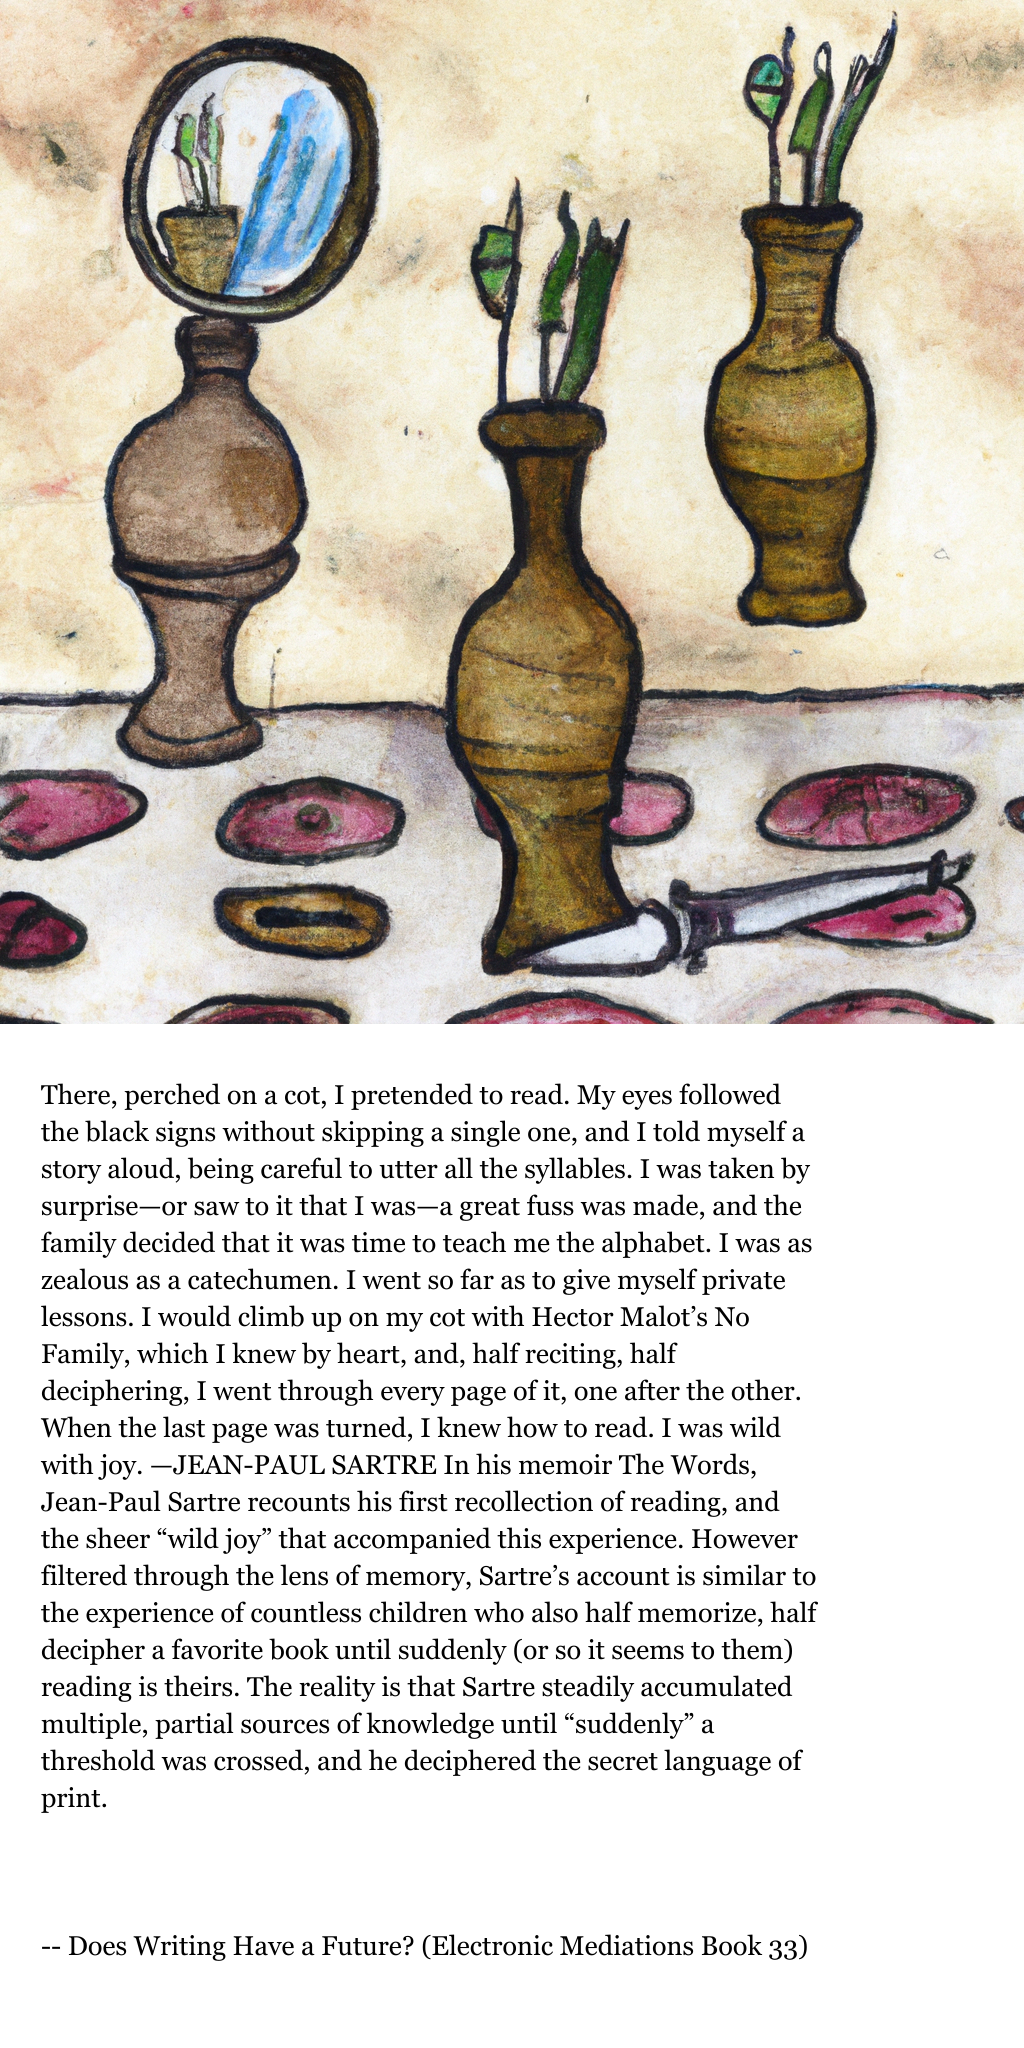
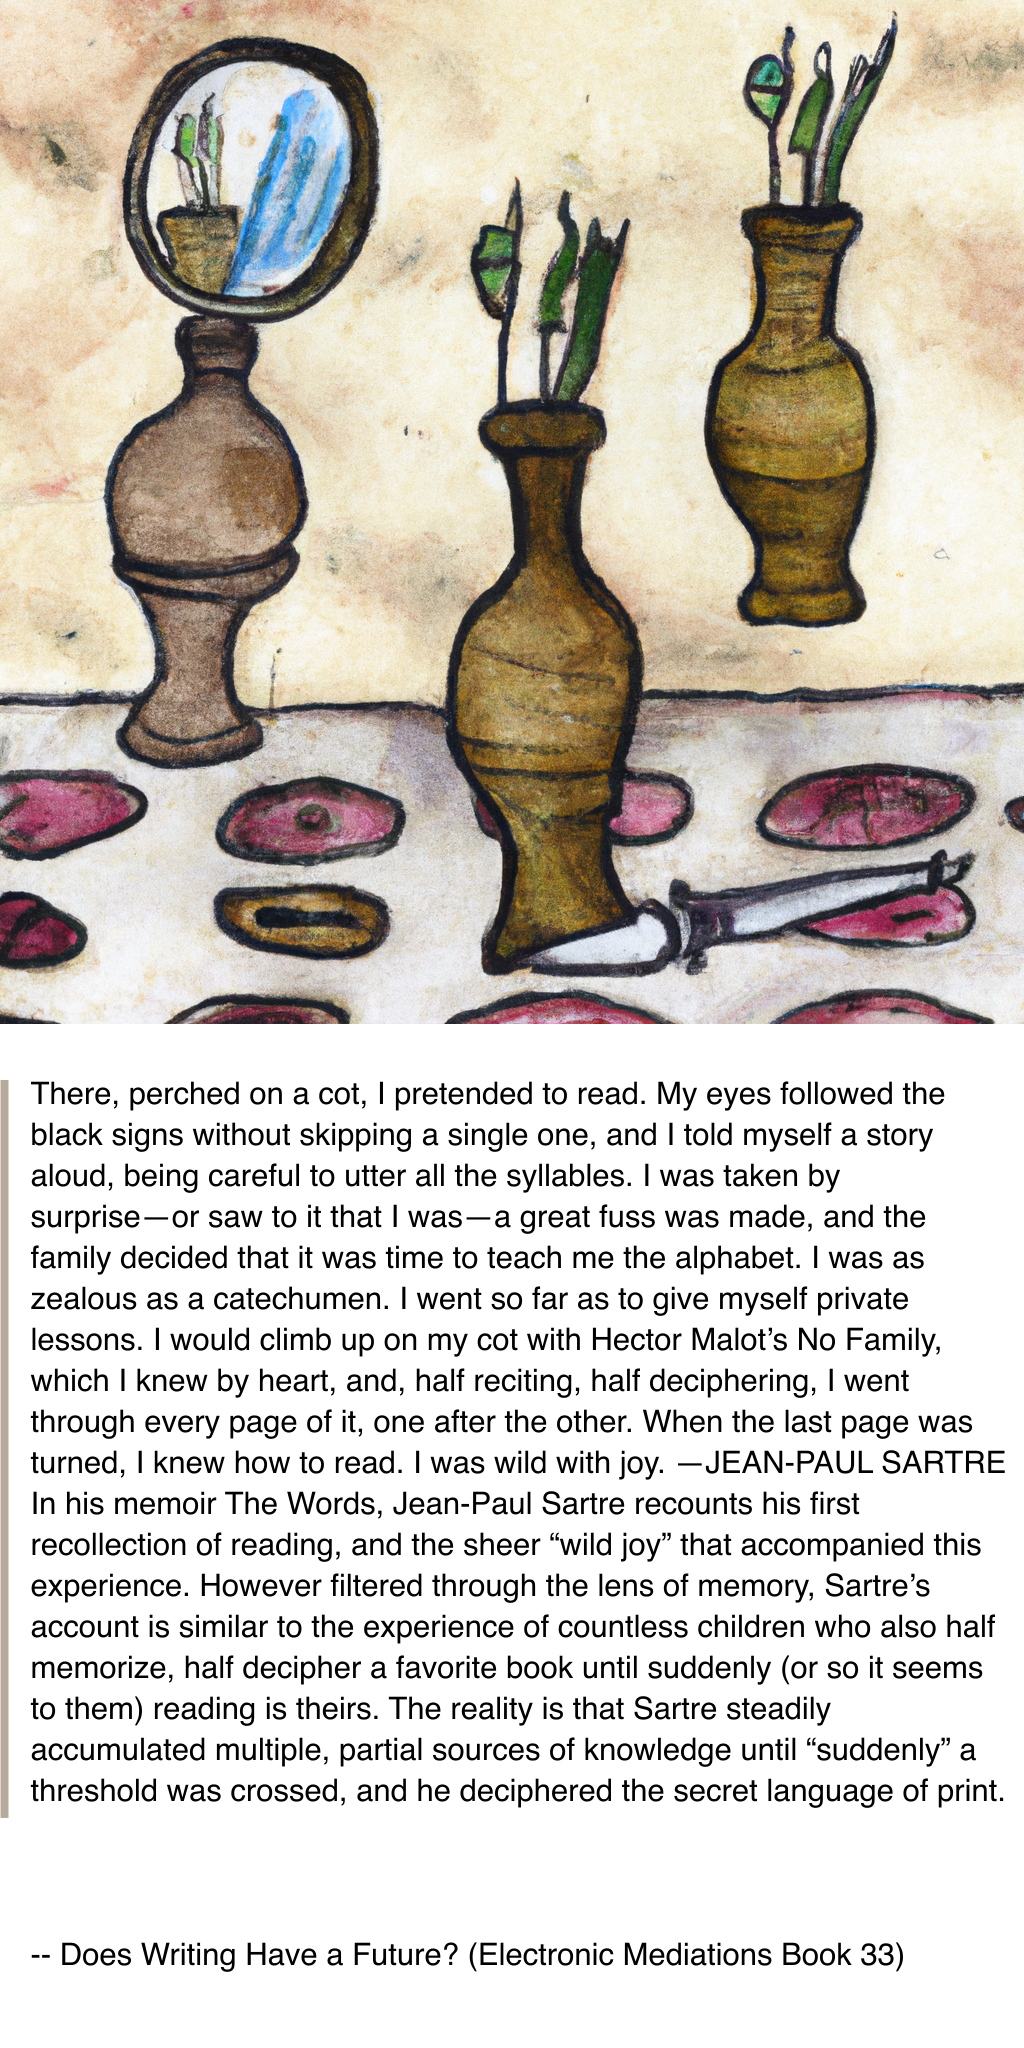
valid

Changed region(s): [[0.0, 0.5312, 0.9688, 0.9062], [0.0625, 0.9375, 0.875, 0.9688]]

diff --git a/share-pic.js b/share-pic.js
@@ -150,10 +150,10 @@ async function overlayTextOnImage(imageUrl, text) {
     ctx.fillStyle = "white";
     ctx.fillRect(0, 0, canvas.width, canvas.height);
 
-    const rectWidth = 1024 * 0.92;
+    const rectWidth = 1024 * 0.999;
     const rectHeight = 1024 * 0.92;
     const rectX = (1024 - rectWidth) / 2;
-    const rectY = 1024 + (1024 - rectHeight) / 2;  // Position the text block under the image
+    const rectY = 1024 + (1024 - rectHeight) / 2; // Position the text block under the image
 
     // Fetch and load the image
     const img = await loadImage(imageUrl);
@@ -161,7 +161,7 @@ async function overlayTextOnImage(imageUrl, text) {
 
     // Word wrapping logic and text rendering
     let fontSize = 80;
-    ctx.font = `${fontSize}px Georgia`;
+    ctx.font = `${fontSize}px Helvetica`;
     let lines = [];
     let blockHeight;
 
@@ -176,7 +176,8 @@ async function overlayTextOnImage(imageUrl, text) {
         for (let i = 0; i < words.length; i++) {
           const word = words[i];
           const width = ctx.measureText(currentLine + " " + word).width;
-          if (width < rectWidth - 162) {  // ~80px padding on each side
+          if (width < rectWidth - 38) {
+            // ~80px padding on each side
             currentLine += (currentLine ? " " : "") + word;
           } else {
             lines.push(currentLine);
@@ -184,7 +185,7 @@ async function overlayTextOnImage(imageUrl, text) {
           }
         }
         lines.push(currentLine);
-        lines.push("");  // Empty line to simulate paragraph spacing
+        lines.push(""); // Empty line to simulate paragraph spacing
       }
 
       // Remove the last empty line
@@ -193,17 +194,53 @@ async function overlayTextOnImage(imageUrl, text) {
       }
 
       // Calculate total block height
-      blockHeight = lines.length * (fontSize + 10);  // 10px line spacing
+      blockHeight = lines.length * (fontSize + 10); // 10px line spacing
       if (blockHeight > rectHeight) {
-        fontSize -= 1;  // Reduce the font size
-        ctx.font = `${fontSize}px Georgia`;  // Maintain the original font for simplicity
+        fontSize -= 1; // Reduce the font size
+        ctx.font = `${fontSize}px Helvetica`; // Maintain the original font for simplicity
       }
     } while (blockHeight > rectHeight);
+
+    const textXStart = 0; // Start drawing text at X=1044 to place it on the right side
+
+    const imageData = ctx.getImageData(0, 0, 1024, 1024);
+    let r = 0,
+      g = 0,
+      b = 0;
+    for (let i = 0; i < imageData.data.length; i += 4) {
+      r += imageData.data[i];
+      g += imageData.data[i + 1];
+      b += imageData.data[i + 2];
+    }
+    const pixelCount = imageData.data.length / 4;
+    r = Math.floor(r / pixelCount);
+    g = Math.floor(g / pixelCount);
+    b = Math.floor(b / pixelCount);
+
+    // make background color of rectangle average color
+    const backgroundColor = `rgb(${r}, ${g}, ${b})`;
+
+    // Draw colored rectangle to the left of the text block
+    const rectangleWidth = 8; // Width of the colored rectangle
+    ctx.fillStyle = backgroundColor; // Color of the rectangle
+    // find line that starts with --
+    const citationLine = lines.find((line) => line.startsWith("--"));
+    const citationIndex = lines.indexOf(citationLine);
+    const linesBeforeCitation = lines.slice(0, citationIndex);
+    const linesAfterCitation = lines.slice(citationIndex);
+    const rectangleHeight = (linesBeforeCitation.length - 3) * (fontSize + 10); // Exclude the last line (citation)
+    ctx.fillRect(
+      textXStart + rectX,
+      rectY + 15,
+      rectangleWidth,
+      rectangleHeight
+    );
+
 
     // Draw each line of text in the bottom half
     ctx.fillStyle = "black";
     for (let i = 0; i < lines.length; i++) {
-      ctx.fillText(lines[i], rectX, 1024 + 80 + i * (fontSize + 10)); // Start drawing 20px below the image
+      ctx.fillText(lines[i], rectX + 30, 1024 + 80 + i * (fontSize + 10)); // Start drawing 20px below the image
     }
 
     // Convert canvas to buffer
@@ -214,7 +251,6 @@ async function overlayTextOnImage(imageUrl, text) {
     return null;
   }
 }
-
 
 async function overlayTextOnImageHorizontal(imageUrl, text) {
   try {
@@ -279,7 +315,7 @@ async function overlayTextOnImageHorizontal(imageUrl, text) {
       blockHeight = lines.length * (fontSize + 10); // 10px line spacing
       const randomFont = ["Palatino", "Georgia", "Helvetica"].sort(
         () => 0.5 - Math.random()
-        )[0];
+      )[0];
       if (blockHeight > rectHeight) {
         fontSize -= 1; // Reduce the font size
         ctx.font = `${fontSize}px ${randomFont}`;
@@ -289,30 +325,29 @@ async function overlayTextOnImageHorizontal(imageUrl, text) {
     // Determine text color (black)
     ctx.fillStyle = "black";
 
-
     // // Draw each line of text on the right side of the canvas
     // for (let i = 0; i < lines.length; i++) {
     //   ctx.fillText(lines[i], textXStart, 20 + i * (fontSize + 10));
     // }
 
-     // Determine average color of the area where the rectangle will be placed
-     const imageData = ctx.getImageData(rectX, rectY, rectWidth, rectHeight);
-     let r = 0,
-       g = 0,
-       b = 0;
-     for (let i = 0; i < imageData.data.length; i += 4) {
-       r += imageData.data[i];
-       g += imageData.data[i + 1];
-       b += imageData.data[i + 2];
-     }
-     const pixelCount = imageData.data.length / 4;
-     r = Math.floor(r / pixelCount);
-     g = Math.floor(g / pixelCount);
-     b = Math.floor(b / pixelCount);
- 
-     // make background color of rectangle average color
-     const backgroundColor = `rgb(${r}, ${g}, ${b})`;
-    
+    // Determine average color of the area where the rectangle will be placed
+    const imageData = ctx.getImageData(rectX, rectY, rectWidth, rectHeight);
+    let r = 0,
+      g = 0,
+      b = 0;
+    for (let i = 0; i < imageData.data.length; i += 4) {
+      r += imageData.data[i];
+      g += imageData.data[i + 1];
+      b += imageData.data[i + 2];
+    }
+    const pixelCount = imageData.data.length / 4;
+    r = Math.floor(r / pixelCount);
+    g = Math.floor(g / pixelCount);
+    b = Math.floor(b / pixelCount);
+
+    // make background color of rectangle average color
+    const backgroundColor = `rgb(${r}, ${g}, ${b})`;
+
     // Draw colored rectangle to the left of the text block
     const rectangleWidth = 8; // Width of the colored rectangle
     ctx.fillStyle = backgroundColor; // Color of the rectangle
@@ -322,14 +357,23 @@ async function overlayTextOnImageHorizontal(imageUrl, text) {
     const linesBeforeCitation = lines.slice(0, citationIndex);
     const linesAfterCitation = lines.slice(citationIndex);
     const rectangleHeight = (linesBeforeCitation.length - 3) * (fontSize + 10); // Exclude the last line (citation)
-    ctx.fillRect(textXStart + rectX, rectY + 15, rectangleWidth, rectangleHeight);
+    ctx.fillRect(
+      textXStart + rectX,
+      rectY + 15,
+      rectangleWidth,
+      rectangleHeight
+    );
 
     // Draw each line of text
     ctx.fillStyle = "black";
     const textX = rectX + rectangleWidth + 10 + 15; // Start drawing text to the right of the colored rectangle
     const textY = rectY + 20 + fontSize; // Start drawing text 20px from the top of the rectangle
     for (let i = 0; i < lines.length; i++) {
-      ctx.fillText(lines[i], textXStart + textX + 20, textY + i * (fontSize + 10));
+      ctx.fillText(
+        lines[i],
+        textXStart + textX + 20,
+        textY + i * (fontSize + 10)
+      );
     }
 
     // Convert canvas to buffer
@@ -393,25 +437,25 @@ export const sharePicOverlay = async (imageUrl, text) => {
 };
 
 export const sharePic = async (imageUrl, text) => {
-    try {
-      const dalleFileTemp = await saveImgFromUrl(imageUrl);
-      const { buffer } = await overlayTextOnImage(dalleFileTemp, text);
-      const resultTemp = `${Date.now()}.png`;
-      fs.writeFileSync(resultTemp, buffer);
-      const result = await uploadToCloudflare(resultTemp);
-      console.log(result);
-      // delete temp files from disk
-      deleteFile(dalleFileTemp);
-      deleteFile(resultTemp);
-    
-      return result;
-    } catch (err) {
-      console.error(err)
-      return {
-        error: err
-      };
-    }
-  };
+  try {
+    const dalleFileTemp = await saveImgFromUrl(imageUrl);
+    const { buffer } = await overlayTextOnImage(dalleFileTemp, text);
+    const resultTemp = `${Date.now()}.png`;
+    fs.writeFileSync(resultTemp, buffer);
+    const result = await uploadToCloudflare(resultTemp);
+    console.log(result);
+    // delete temp files from disk
+    deleteFile(dalleFileTemp);
+    deleteFile(resultTemp);
+
+    return result;
+  } catch (err) {
+    console.error(err);
+    return {
+      error: err,
+    };
+  }
+};
 
 // Example usage
 
@@ -430,8 +474,7 @@ async function testMain() {
   }
 }
 
-if (process.argv[2] === "test")
-testMain();
+if (process.argv[2] === "test") testMain();
 
 // sharePic(
 //   "https://res.cloudinary.com/dtgh01qqo/image/upload/v1624293899/img-4E6wH8ITwi3WJCGq9txRKb8C.png",
